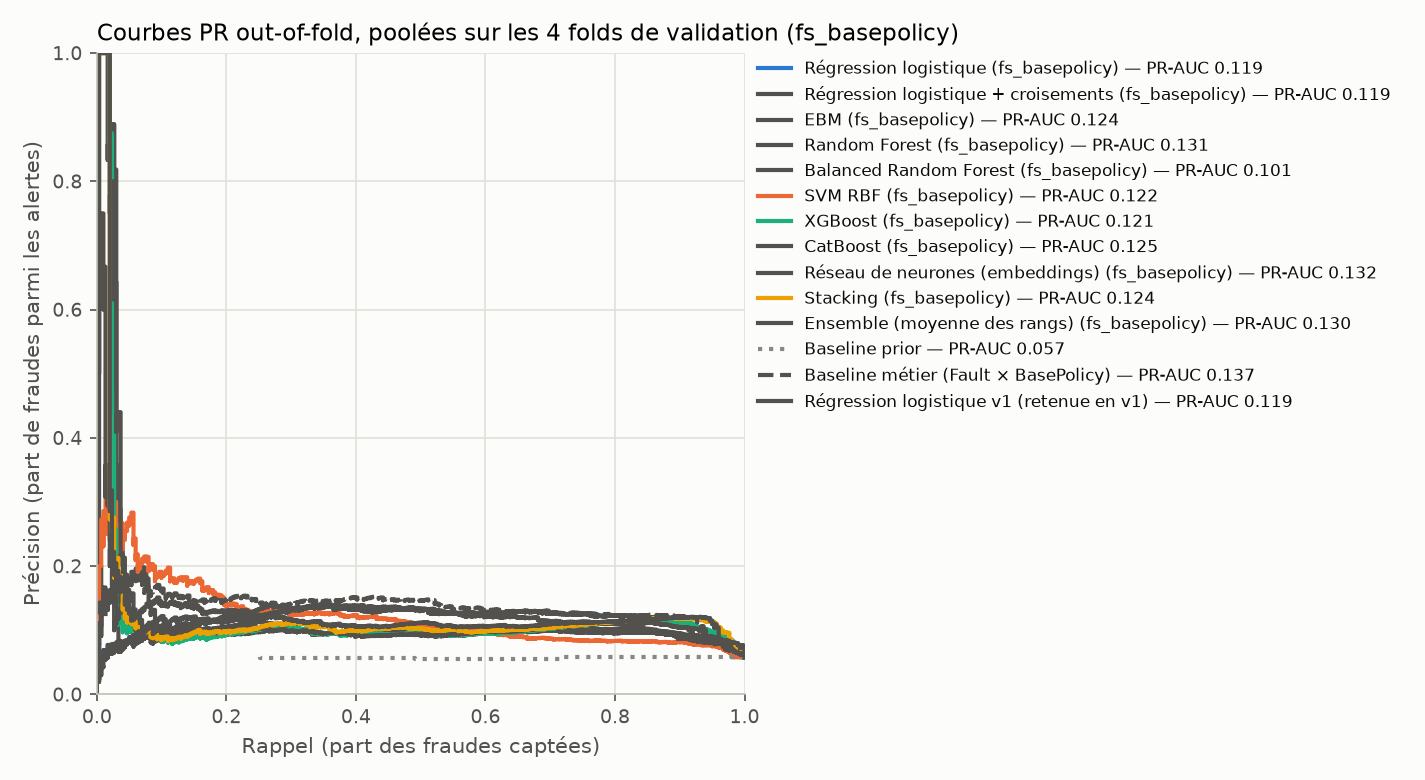
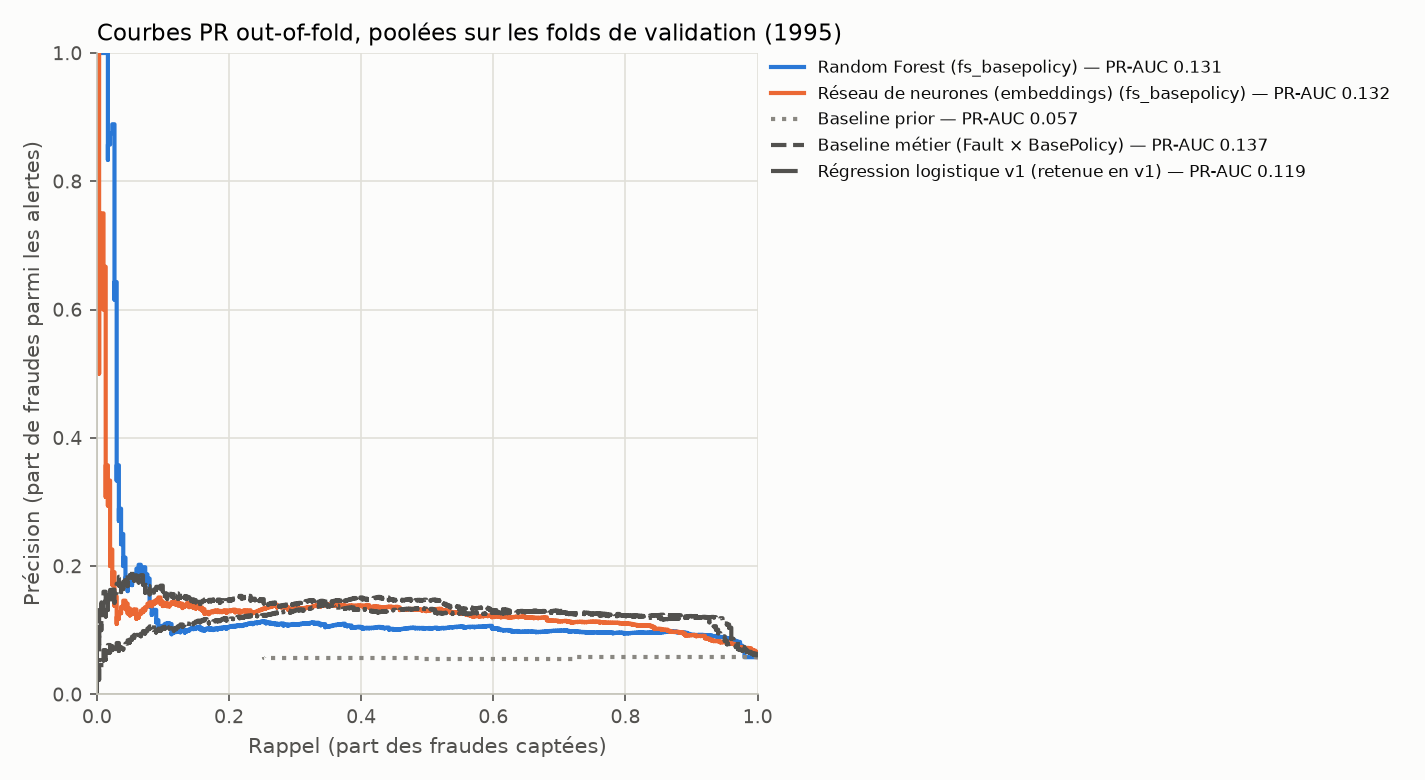
fix(v2): CV figures drawn once the retained model is known
With more families than colours, train.py no longer draws the CV figures;
holdout.py draws them with role-based styles (retained, best CV, bars).
v1 figures unchanged. Figures redrawn with --figures-only (no metric
recomputed).

diff --git a/src/train.py b/src/train.py
@@ -249,13 +249,18 @@ class Trainer:
         ref = self.cfg["features"]["reference_set"]
         keys = ([M.model_key(f, ref) for f in M.model_families(self.cfg)] + M.BASELINES
                 + list(self.cfg.get("references", {})))
-        figs = {
-            "cv_pr_auc_by_fold.png": E.plot_fold_scores(
-                cv_folds, "pr_auc", keys, f"PR-AUC par fold temporel ({ref})"),
-            "cv_oof_pr_curves.png": E.plot_pr_curves(
-                oof["y"], {k: oof[k] for k in keys},
-                f"Courbes PR out-of-fold, poolées sur les {len(self.fold_info)} folds de validation ({ref})"),
-        }
+        # Plus de familles que de couleurs (v2) : les figures CV sont dessinées
+        # par holdout.py, une fois le modèle retenu connu (styles par rôle).
+        if len(M.model_families(self.cfg)) > len(E.FAMILY_COLORS):
+            figs = {}
+        else:
+            figs = {
+                "cv_pr_auc_by_fold.png": E.plot_fold_scores(
+                    cv_folds, "pr_auc", keys, f"PR-AUC par fold temporel ({ref})"),
+                "cv_oof_pr_curves.png": E.plot_pr_curves(
+                    oof["y"], {k: oof[k] for k in keys},
+                    f"Courbes PR out-of-fold, poolées sur les {len(self.fold_info)} folds de validation ({ref})"),
+            }
         for name, fig in figs.items():
             fig.savefig(self.dirs["figures_dir"] / name, dpi=150, facecolor=E.SURFACE,
                         metadata={"Software": None})

diff --git a/src/holdout.py b/src/holdout.py
@@ -306,11 +306,16 @@ class HoldoutEvaluation:
                 f"retenu = {E.model_label(retained)}, holdout {year}",
                 reference=0.0, width=width),
         }
-        if self.by_role:     # v2 : scores par fold, une fois le retenu connu
+        if self.by_role:     # v2 : figures CV, une fois le retenu connu
             cv_folds = pd.read_csv(self.cv_dir / "cv_folds.csv")
             figs["cv_pr_auc_by_fold.png"] = E.plot_fold_scores(
                 cv_folds, metric, candidates + bars,
                 f"PR-AUC par fold de la CV ancrée ({ref})", styles=styles)
+            oof = pd.read_csv(self.cv_dir.parent / "predictions" / "oof_scores.csv")
+            figs["cv_oof_pr_curves.png"] = E.plot_pr_curves(
+                oof["y"], {k: oof[k] for k in curve_keys},
+                "Courbes PR out-of-fold, poolées sur les folds de validation (1995)",
+                styles=styles)
         for name, fig in figs.items():
             fig.savefig(self.dirs["figures"] / name, dpi=150, facecolor=E.SURFACE,
                         metadata={"Software": None})
